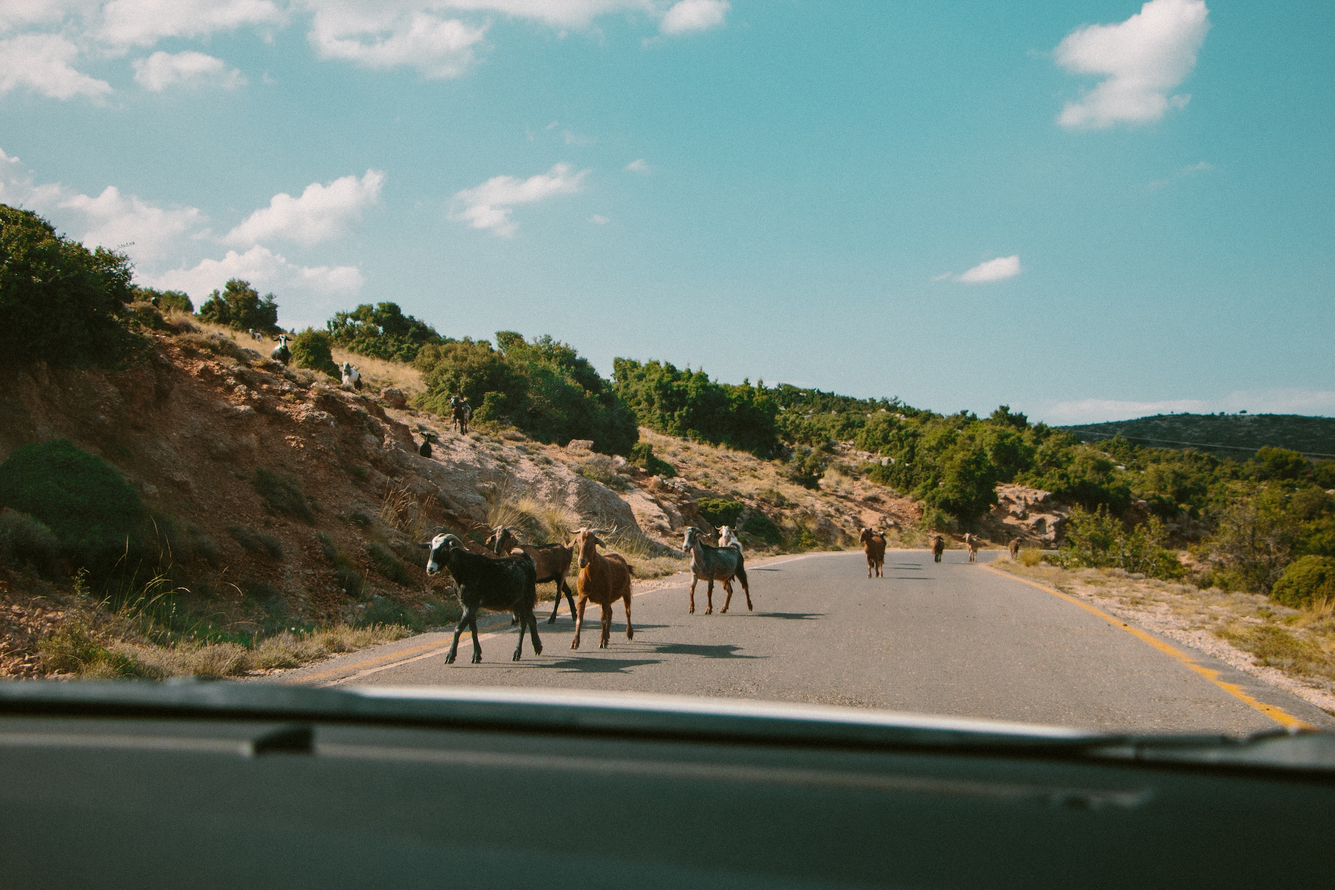
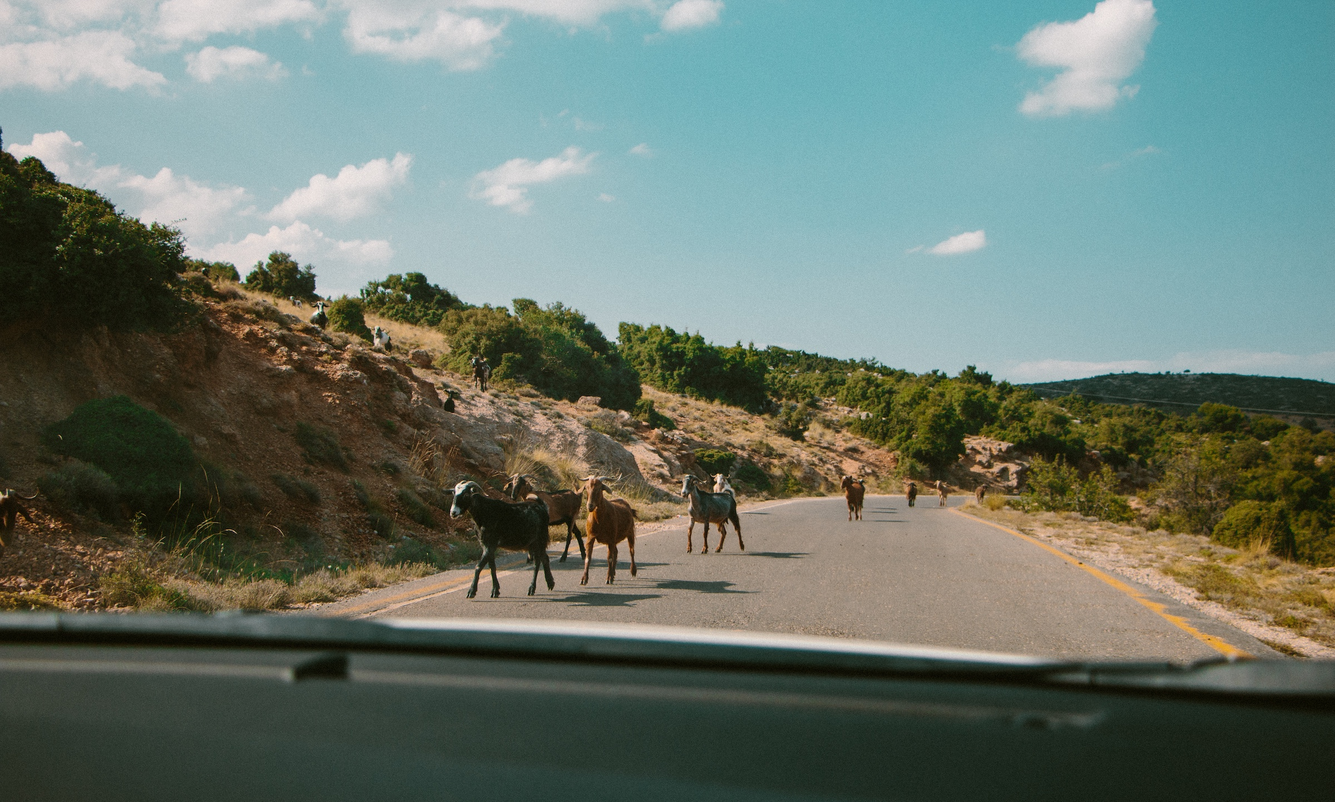
Allow images of different aspect ratios
Add images of different aspect ratios to the HTML.
Adjust the height of the carousel dynamically depending on aspect ratio.

diff --git a/src/image-carousel.js b/src/image-carousel.js
@@ -1,4 +1,4 @@
-function imageCarousel(targetId, timeoutDelay) {
+function imageCarousel(targetId, timeoutDelay, aspectRatio = '16/9') {
   const carouselContainer = document.getElementById(`${targetId}`);
   const nextArrow = carouselContainer.querySelector('.arrow-r');
   const prevArrow = carouselContainer.querySelector('.arrow-l');
@@ -51,6 +51,14 @@ function imageCarousel(targetId, timeoutDelay) {
     scrollImg(getPrevImg());
   }
 
+  // Adjust the size of the carousel to respect aspect ratio
+  function adjustCarouselHeight() {
+    const width = carouselContainer.offsetWidth;
+    const ratio = aspectRatio.split('/');
+    const height = (width * ratio[1]) / ratio[0];
+    carouselContainer.style.height = `${height}px`;
+  }
+
   // Adds dot navigation
   const dotNavWrapper = document.createElement('div');
   dotNavWrapper.classList.add('dot-nav-wrapper');
@@ -84,9 +92,11 @@ function imageCarousel(targetId, timeoutDelay) {
   dotArr.forEach((dot, index) => {
     dot.addEventListener('click', () => scrollImg(index));
   });
+  window.addEventListener('resize', adjustCarouselHeight);
 
   selectDot(0); // Selects the first dot
   unhideImg(0);
+  adjustCarouselHeight();
 }
 
 export default imageCarousel;

diff --git a/src/styles.css b/src/styles.css
@@ -8,26 +8,30 @@ body {
 .carousel-container {
   position: relative;
   user-select: none;
+  background-color: var(--carousel-bg);
 }
 
 .carousel-frame {
   overflow: hidden;
   scroll-behavior: smooth;
+  height: inherit;
 }
 
 .carousel-wrapper {
   display: flex;
+  height: inherit;
 }
 
 .carousel-wrapper img {
   width: 100%;
-  opacity: 0.5;  
-  transition: opacity 0.5s ease-out;  
+  object-fit: contain;
+  opacity: 0.5;
+  transition: opacity 0.5s ease-out;
 }
 
 .carousel-wrapper img.visible-img {
   opacity: 1;
-  transition: opacity 0.5s ease-out 0.2s;  
+  transition: opacity 0.5s ease-out 0.2s;
 }
 
 .arrow-l,
@@ -80,6 +84,7 @@ body {
 :root {
   --nav-color: white;
   --arrow-color: black;
+  --carousel-bg: grey;
 }
 
 .carousel-container {

diff --git a/src/template.html b/src/template.html
@@ -14,7 +14,9 @@
     <div class="carousel-frame">
       <div class="carousel-wrapper">
         <img src="./assets/img1.jpg" alt="Central Shanghai streets">
+        <img src="./assets/img1-2.jpg" alt="Central Shanghai streets">
         <img src="./assets/img2.jpg" alt="Goats on the roads of rural Greece">
+        <img src="./assets/img2-2.jpg" alt="Goats on the roads of rural Greece">
         <img src="./assets/img3.jpg" alt="Crowded park in central Shanghai">
         <img src="./assets/img4.jpg" alt="Forrest in the outskirts of Sydney">
         <img src="./assets/img5.jpg" alt="Girls playing in Bordeaux's Miroir d'Eau">

diff --git a/src/index.js b/src/index.js
@@ -1,4 +1,4 @@
 import './styles.css';
 import imageCarousel from './image-carousel';
 
-imageCarousel('carousel-1', 2000);
+imageCarousel('carousel-1', 5000, '4/3');
